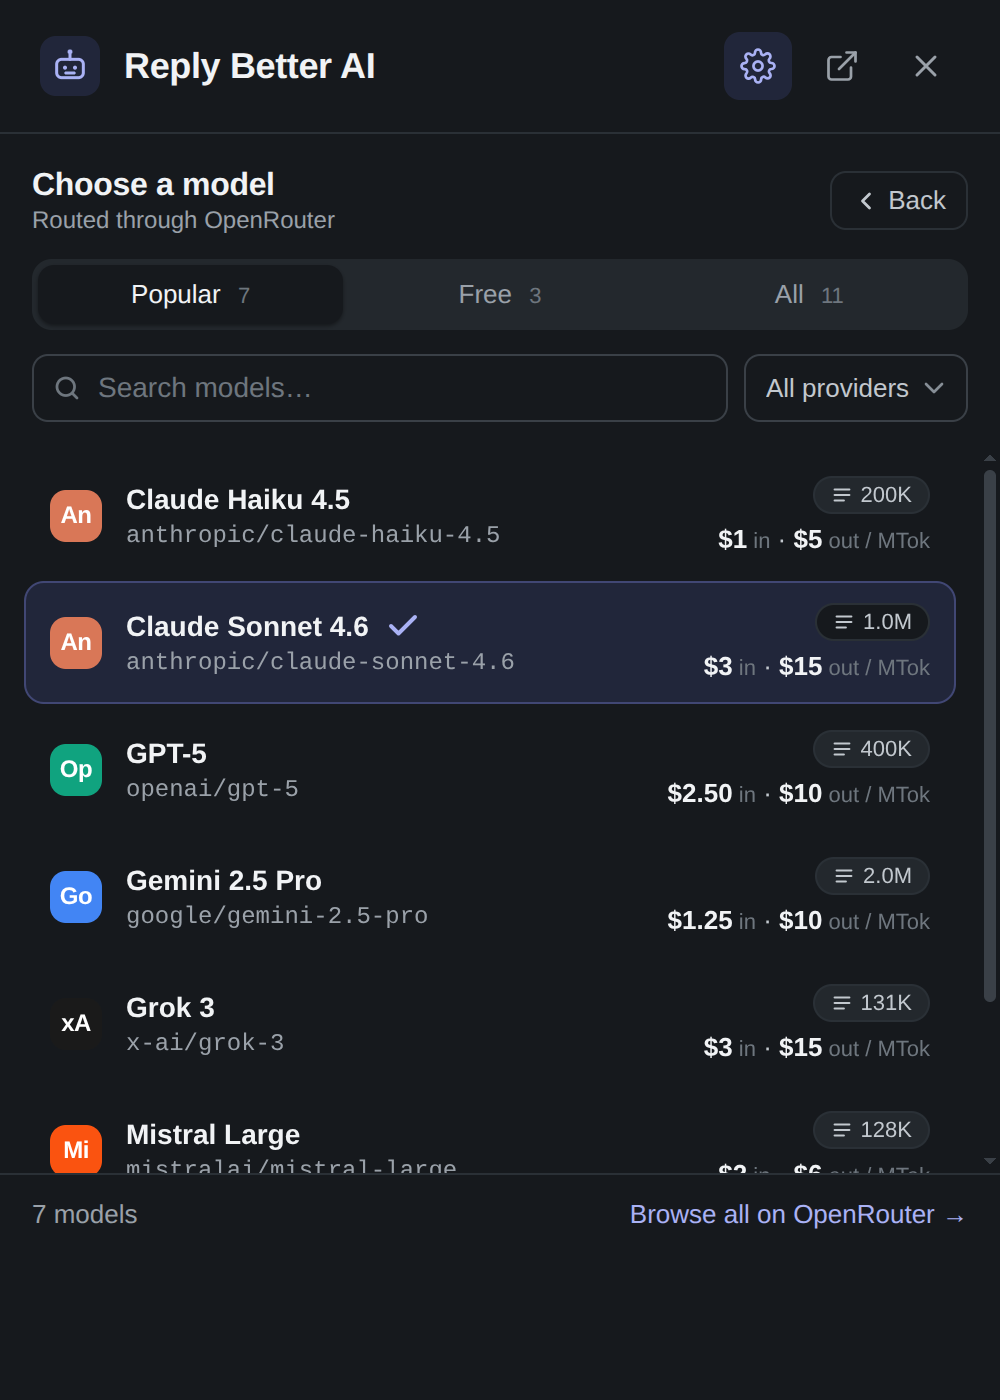
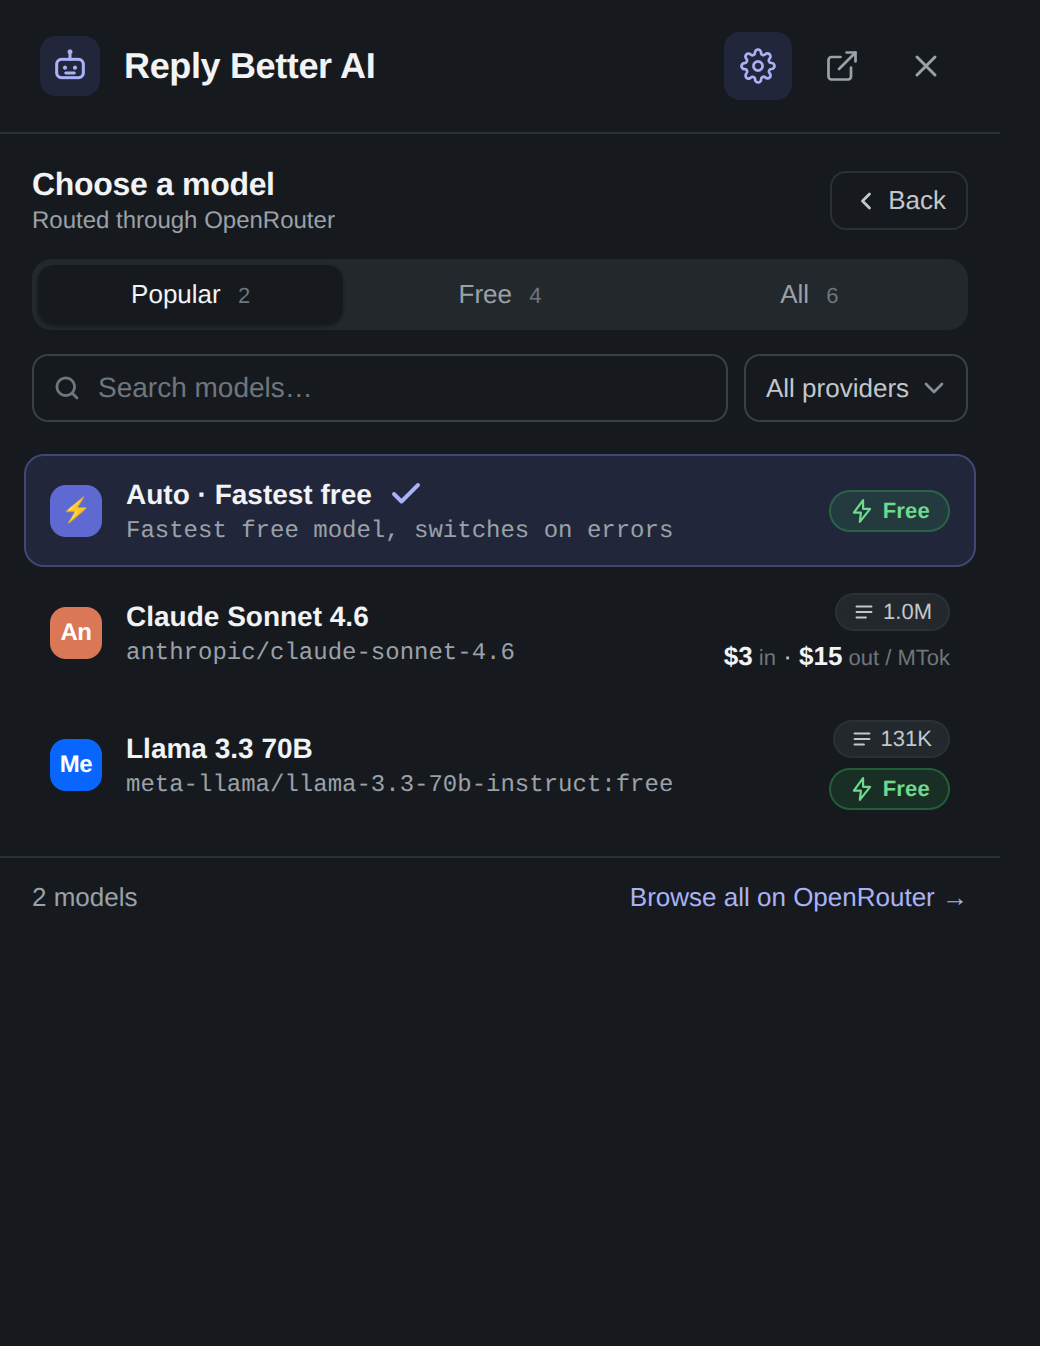
docs: document Auto · Fastest free + refresh picker screenshot

diff --git a/README.md b/README.md
@@ -30,6 +30,7 @@ Everything streams live, you can **Regenerate** for another take, and **Insert**
 - **Changes diff** — word-level additions/deletions between your draft and the rewrite.
 - **Regenerate** — cycle fresh variations with a version counter.
 - **Dynamic model picker** — Popular / Free / All tabs, search, provider filter, context window, and live per-token pricing.
+- **Auto · Fastest free** — one pick that routes to the fastest available free model and fails over automatically when one is busy or errors (reasoning models excluded; shows which model answered).
 - **Inline model switch + recovery** — swap models without leaving the page; when a free model is rate-limited, switch and retry in one tap.
 - **Writing styles** — Improve, Professional, Friendly, Concise, Persuasive — plus your own custom prompts.
 - **Snippets** — TextBlaze-style triggers (`/sig`, `/welcome`) that expand as you type in plain text fields.
@@ -66,7 +67,7 @@ OpenRouter has both free and paid models. Free models are flagged in the picker;
 
 **Inline — Reply** — select the messages you're replying to anywhere on the page; the button turns into a speech bubble. Click it, then pick a tone, **Summarize**, or **You tell me** to type your intent in any language. Insert the drafted reply with one-tap Undo.
 
-**Model switch** — the active model shows in the panel/popup header; click it to search and swap. Handy when a free model is busy: switch and it retries on the new one.
+**Model switch** — the active model shows in the panel/popup header; click it to search and swap. Handy when a free model is busy: switch and it retries on the new one. Pick **Auto · Fastest free** to let OpenRouter route to the fastest available free model and fail over automatically — the best default if you're sticking to free models.
 
 **Snippets** — in **Settings**, define triggers like `/welcome` that expand into longer text when typed.
 